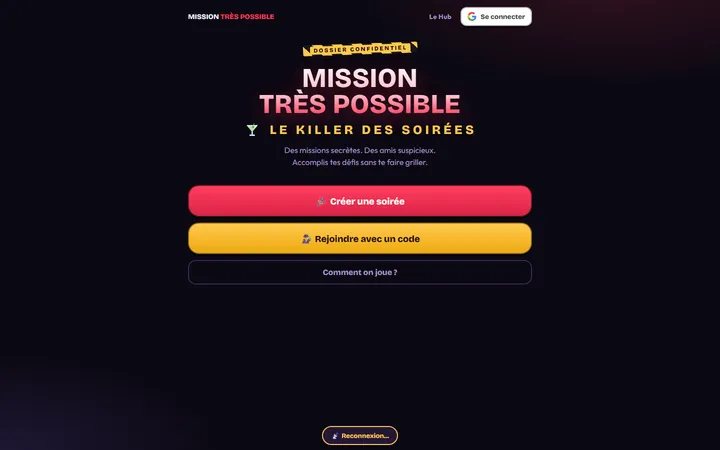
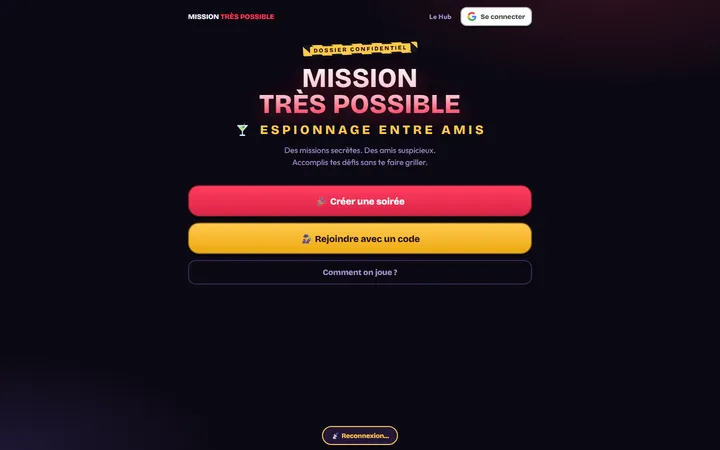
Ajout de SportSee, nouvelle capture de Mission Très Possible

Changed region(s): [[0.3361, 0.28, 0.6722, 0.3111]]

diff --git a/index.html b/index.html
@@ -102,7 +102,7 @@
           </div>
         </div>
         <div class="hero__meta">
-          <div class="hero__stat"><span class="hero__num" data-count="13">0</span><span>projets en ligne</span></div>
+          <div class="hero__stat"><span class="hero__num" data-count="14">0</span><span>projets en ligne</span></div>
           <div class="hero__stack">React · Next.js · TypeScript · Node.js · MySQL</div>
           <a class="hero__scroll" href="#jeux" aria-label="Défiler vers les projets">Défiler<span class="hero__scroll-line"></span></a>
         </div>
@@ -234,7 +234,7 @@
         <header class="section__head" data-reveal>
           <span class="section__num">02</span>
           <h2 class="section__title">Parcours front-end</h2>
-          <p class="section__intro">Sept projets du parcours Développeur front-end d'OpenClassrooms, du HTML et CSS écrits à la main jusqu'aux applications React, chacun avec sa contrainte technique.</p>
+          <p class="section__intro">Huit projets du parcours Développeur front-end d'OpenClassrooms, du HTML et CSS écrits à la main jusqu'aux applications React, chacun avec sa contrainte technique.</p>
           <span class="section__rule"></span>
         </header>
 
@@ -305,6 +305,19 @@
           </article>
 
           <article class="card" data-reveal style="--i:2">
+            <a class="card__media" href="https://p12-sportsee-omega.vercel.app" target="_blank" rel="noopener" aria-label="Ouvrir SportSee dans un nouvel onglet">
+              <img src="/assets/p12-sportsee-sm.webp" alt="Tableau de bord SportSee d'un utilisateur, avec ses graphiques d'activité" width="720" height="450" loading="lazy" decoding="async">
+            </a>
+            <div class="card__head"><h3 class="card__title">SportSee</h3><span class="card__step">P12</span></div>
+            <p class="card__desc">Tableau de bord d'analyse sportive : activité quotidienne, durée des sessions, performances et score, tracés avec Recharts depuis une API Node, avec des données mockées en secours.</p>
+            <ul class="tags"><li>React</li><li>Recharts</li><li>API REST</li><li>Sass</li></ul>
+            <div class="card__links">
+              <a class="link-arrow" href="https://p12-sportsee-omega.vercel.app" target="_blank" rel="noopener">Voir le site<svg viewBox="0 0 16 16" aria-hidden="true"><path d="M3 13 13 3M6 3h7v7" fill="none" stroke="currentColor" stroke-width="1.5" stroke-linecap="round" stroke-linejoin="round"/></svg></a>
+              <a class="link-arrow" href="https://github.com/OnerAliCan/P12-SportSee" target="_blank" rel="noopener">Code<svg viewBox="0 0 16 16" aria-hidden="true"><path d="M3 13 13 3M6 3h7v7" fill="none" stroke="currentColor" stroke-width="1.5" stroke-linecap="round" stroke-linejoin="round"/></svg></a>
+            </div>
+          </article>
+
+          <article class="card" data-reveal style="--i:0">
             <a class="card__media" href="https://p13-pink.vercel.app" target="_blank" rel="noopener" aria-label="Ouvrir Argent Bank dans un nouvel onglet">
               <img src="/assets/p13-argentbank-sm.webp" alt="Page d'accueil d'Argent Bank" width="720" height="450" loading="lazy" decoding="async">
             </a>
@@ -317,7 +330,7 @@
             </div>
           </article>
 
-          <article class="card" data-reveal style="--i:0">
+          <article class="card" data-reveal style="--i:1">
             <a class="card__media" href="https://p14-hrnet-one.vercel.app" target="_blank" rel="noopener" aria-label="Ouvrir HRnet dans un nouvel onglet">
               <img src="/assets/p14-hrnet-sm.webp" alt="Formulaire de création d'employé de HRnet" width="720" height="450" loading="lazy" decoding="async">
             </a>
